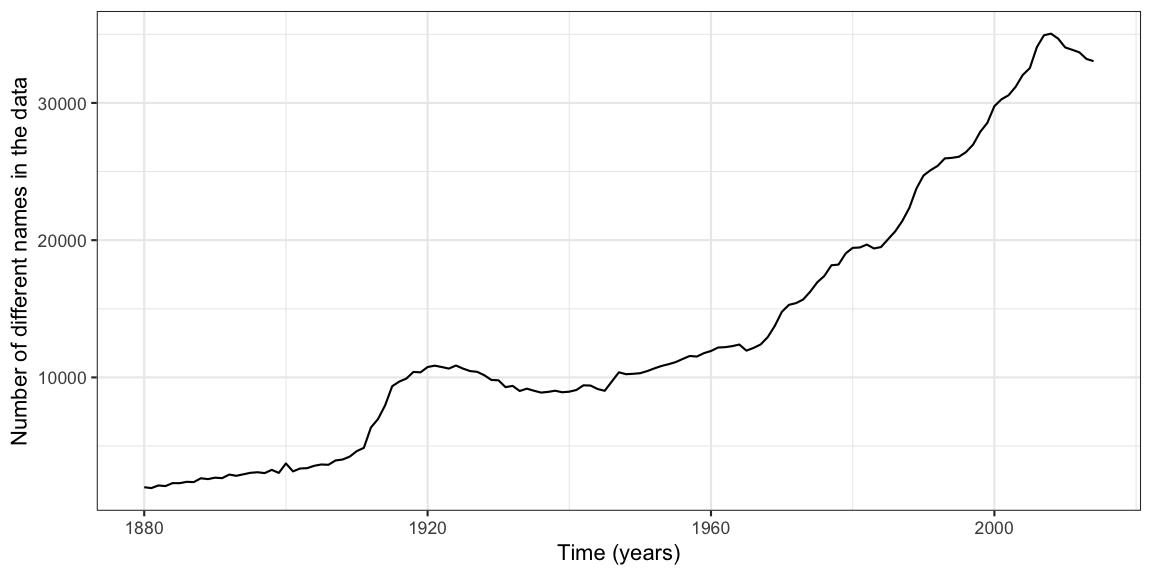
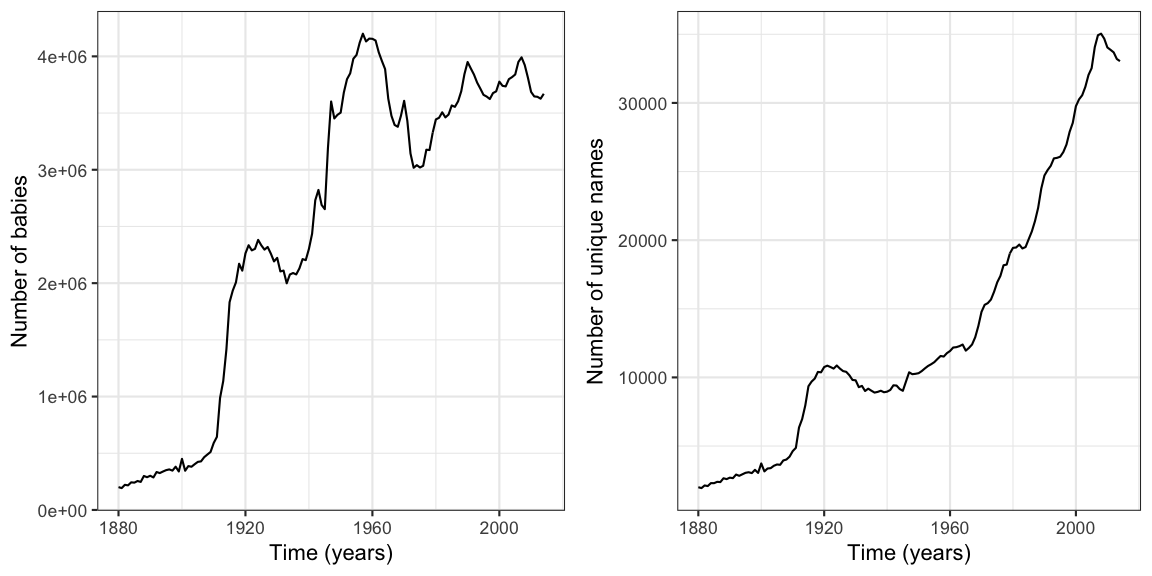
building suggestions into article

diff --git a/_posts/2017-03-01-morebabynames.md b/_posts/2017-03-01-morebabynames.md
@@ -25,26 +25,42 @@ After reading a cool post by [Kasia Kulma](https://kkulma.github.io/) on
 how the release of [Disney films have an impact on girl namings in the
 US](https://kkulma.github.io/2017-02-22-disney-names/), I became aware of the `babynames` package by Hadley Wickham. The package wraps the data by the
 [USA social security administration](https://www.ssa.gov/oact/babynames/limits.html)
-on the frequency of all baby names each year during the period 1880-2014 in the US. For
-reasons of privacy protection, only names with 5 or more occurrences in a given year, are contained in the data. 
+on the frequency of all baby names each year during the period 1880-2014 in the US. Because the data fit phenomenally in spirit to this blog's two previous posts on [onomastics](http://staff.math.su.se/hoehle/blog/2017/02/06/onomastics.html) and the [birthday problem with unequal probabilities](http://staff.math.su.se/hoehle/blog/2017/02/13/bday.html), we use the data to extend our name analyses in temporal fashion.
+
 
 
 ```r
 library(babynames)
+head(babynames,n=2)
 ```
 
-Check how many unique names are contained in the data each year:
+```
+## # A tibble: 2 × 5
+##    year   sex  name     n       prop
+##   <dbl> <chr> <chr> <int>      <dbl>
+## 1  1880     F  Mary  7065 0.07238359
+## 2  1880     F  Anna  2604 0.02667896
+```
+
+Check how many babies and how many unique first names are contained in the data each year:
 
 ```r
-babynames %>% group_by(year) %>% summarise(n=n()) %>% ggplot(aes(x=year, y=n)) + geom_line() + xlab("Time (years)") + ylab("Number of different names in the data")
+p1 <- babynames %>% group_by(year) %>% summarise(n=sum(n)) %>% ggplot(aes(x=year, y=n)) + geom_line() + xlab("Time (years)") + ylab("Number of babies")
+p2 <- babynames %>% group_by(year) %>% summarise(n=n()) %>% ggplot(aes(x=year, y=n)) + geom_line() + xlab("Time (years)") + ylab("Number of unique names")
+gridExtra::grid.arrange(p1, p2, ncol=2)
 ```
 
 <img src="http://staff.math.su.se/hoehle/blog/figure/source/2017-03-01-morebabynames/UNIQUENAMES-1.png" style="display: block; margin: auto;" />
 
-We look at the proportion of babies, which apparently have been removed due to privacy protection of the names. This is done by investigating the sum of proportions for each year. If all names would be available, the sum would be 2 (1 for each gender).
+We see that the number of live-births remains at an *approximately* stable level the last 50 years, whereas the number of unique names kept increasing. Note that for reasons of privacy protection, only names with 5 or more occurrences in a given year, are contained in the data. We therefore investigate the proportion of babies, which apparently have been removed due to privacy protection of the names. This is done by investigating the sum of the proportions column for each year. If all names would be available, the sum per year would be 2 (1 for each gender). 
+
+
+```r
+babynames %>% group_by(year) %>% summarise(prop=sum(prop)) %>% ggplot(aes(x=year, y=(2-prop)/2)) + geom_line() + xlab("Time (years)") + ylab("Proportion of the population removed") + scale_y_continuous(labels=scales::percent)
+```
 
 <img src="http://staff.math.su.se/hoehle/blog/figure/source/2017-03-01-morebabynames/PROPMISSING-1.png" style="display: block; margin: auto;" />
-It becomes clear that a non-negligible part of the data appear to have been removed. Due to these names being removed, we re-scale the yearly proportions s.t. they really sum to one.
+It becomes clear that a non-negligible part of the names are removed and the proportion appears to vary with time. As a simple fix, we re-scale the yearly proportions per year s.t. they really sum to one.
 
 
 ```r
@@ -56,13 +72,24 @@ babynames <- babynames %>% group_by(year) %>% mutate(p = n/sum(n))
 
 The data are perfect for testing the
 name-collision functionality from the previous
-[Happy pbirthday class of 2016](http://staff.math.su.se/hoehle/blog/2017/02/13/bday.html) post. Since the post, the `pbirthday_up` function for computing the name collision probability for the birthday problem with unequal occurrence probabilities, has been assembled into a preliminary `birthdayproblem` package.
+[Happy pbirthday class of 2016](http://staff.math.su.se/hoehle/blog/2017/02/13/bday.html) post. Since the writing of the post, the `pbirthday_up` function for computing the name collision probability, which is an instance of the birthday problem with unequal occurrence probabilities, has been assembled into a preliminary [`birthdayproblem`](https://github.com/hoehleatsu/birthdayproblem) R package available from github.
 
 
+```r
+devtools::install_github("hoehleatsu/birthdayproblem")
+library(birthdayproblem)
+```
 
 We can now easily calculate for each year the probability that 2 or more kids in a class of $n\in \{20,25,30\}$ kids all born in a given year YYYY will have same first name:
 
 
+```r
+collision <- babynames %>% group_by(year) %>% do({
+  n <- c(20L,25L,30L)
+  p <- sapply(n, function(n) pbirthday_up(n=n, .$p ,method="mase1992")$prob)
+  data.frame(n=n, p=p)
+})
+```
 <img src="http://staff.math.su.se/hoehle/blog/figure/source/2017-03-01-morebabynames/COLLIDEPROBTS-1.png" style="display: block; margin: auto;" />
 
 It looks like the name distribution has become more diverse
